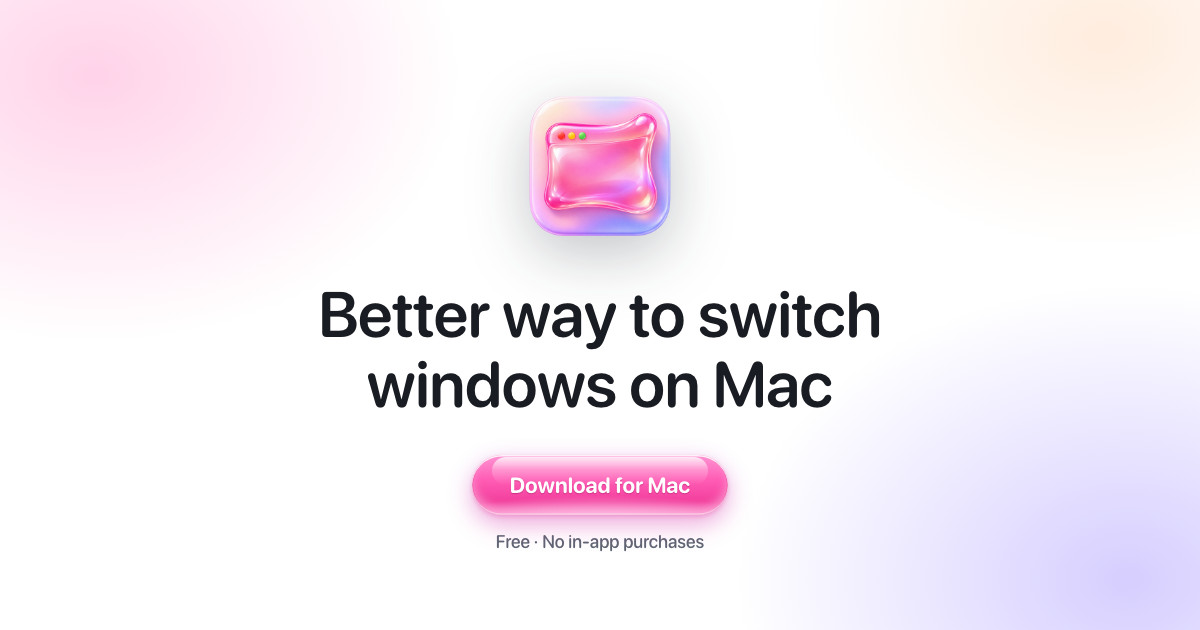
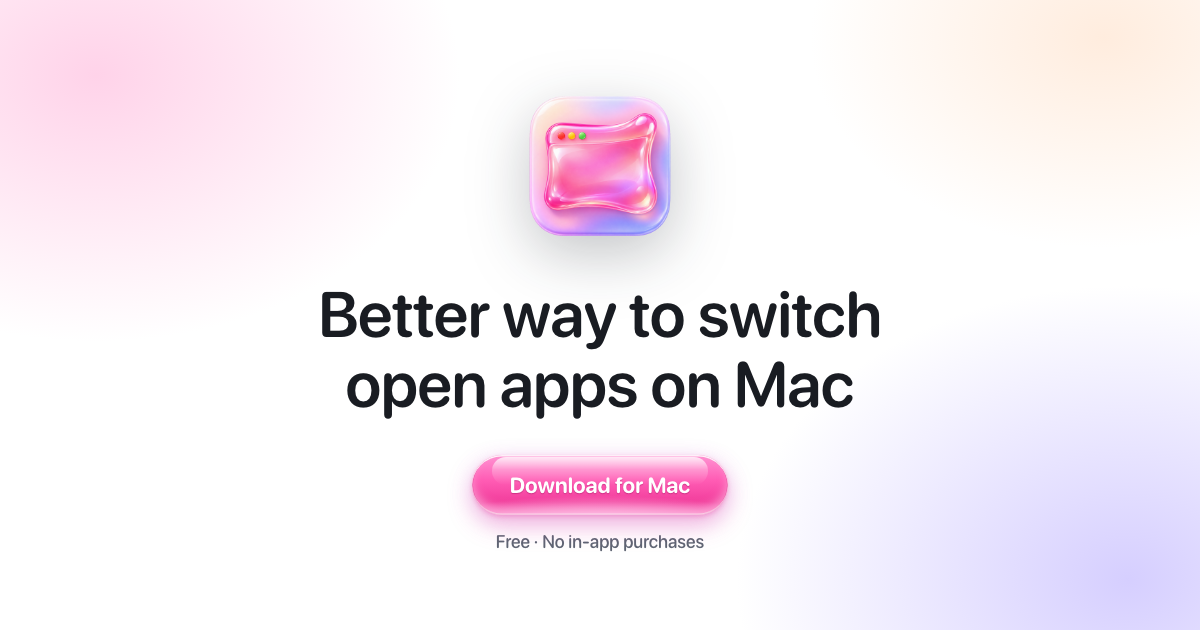
feat(site): Better way to switch open apps on Mac

Changed region(s): [[0.2775, 0.573, 0.7092, 0.6635]]

diff --git a/site/index.html b/site/index.html
@@ -23,12 +23,12 @@
   <meta property="og:image" content="https://bubbleg.yaosamo.com/og.png" />
   <meta property="og:image:width" content="1200" />
   <meta property="og:image:height" content="630" />
-  <meta property="og:image:alt" content="The Bubbleg icon above “Better way to switch windows on Mac” and a pink Download for Mac button." />
+  <meta property="og:image:alt" content="The Bubbleg icon above “Better way to switch open apps on Mac” and a pink Download for Mac button." />
   <meta name="twitter:card" content="summary_large_image" />
   <meta name="twitter:title" content="Bubbleg – Free Window Switcher for Mac" />
   <meta name="twitter:description" content="Every open window becomes a small live preview you can click, drag anywhere or snap onto the window you're in. Free, no in-app purchases." />
   <meta name="twitter:image" content="https://bubbleg.yaosamo.com/og.png" />
-  <meta name="twitter:image:alt" content="The Bubbleg icon above “Better way to switch windows on Mac” and a pink Download for Mac button." />
+  <meta name="twitter:image:alt" content="The Bubbleg icon above “Better way to switch open apps on Mac” and a pink Download for Mac button." />
   <meta name="twitter:creator" content="@yaosamo" />
   <link rel="icon" href="icon.png" type="image/png" />
   <link rel="apple-touch-icon" href="apple-touch-icon.png" />
@@ -493,7 +493,7 @@
   <main class="page">
     <section class="intro">
       <img class="icon" src="icon.png" alt="Bubbleg app icon" width="144" height="144" />
-      <h1>Better way to switch<br class="split" /> windows on&nbsp;Mac</h1>
+      <h1>Better way to switch<br class="split" /> open apps on&nbsp;Mac</h1>
       <a class="get" href="Bubbleg.dmg" download>Download for Mac</a>
       <p class="price">Free · No in-app purchases</p>
     </section>
